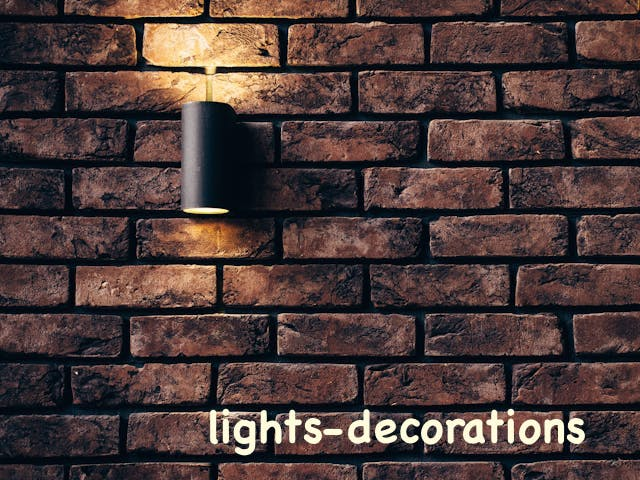
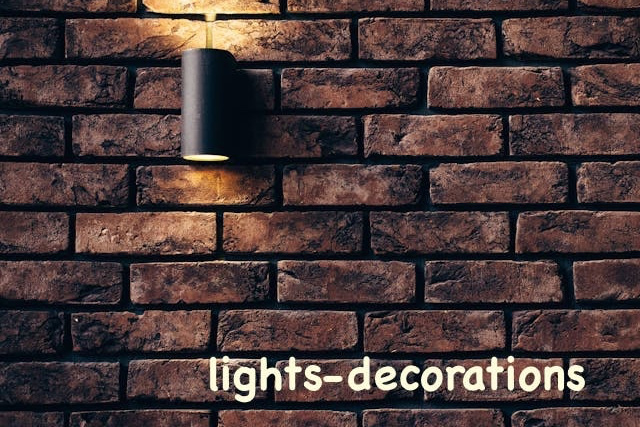
changed pictures size

diff --git a/mybussines.js b/mybussines.js
@@ -11,7 +11,7 @@ const c = './pictures/laptoppink.jpg';
 const d = './pictures/laptopgraph.jpg';
 
 const a0 = './pictures/2appledesktops.jpg'
-const a1 = './pictures/designroom.jpg'
+const a1 = './pictures/designroom1.jpg'
 const a2 = './pictures/flowersondesck.jpg'
 const a3 = './pictures/interiordesign11.jpg'
 const a4 = './pictures/ligthonwall.jpg'
@@ -71,7 +71,7 @@ dropbtn.addEventListener('click', (e) => {
     divwidth = toppage.offsetWidth
     if(divwidth < 550){
         if(menu == 0){
-            navbar.setAttribute('style', 'width:160px; transition: width 1s;')
+            navbar.setAttribute('style', 'width:160px; transition: width 1s; z-index:3;')
             menu = 1
         }else{
             navbar.setAttribute('style', 'width: 0px; transition: width 1s;')

diff --git a/index.html b/index.html
@@ -73,7 +73,7 @@
                         </div>
                     </div>
                     <div class="head2">
-                        <img id="myimage" src="./pictures/designerdesk.jpg" alt="">
+                        <img id="myimage" src="./pictures/laptopondesk.jpg" alt="">
                         <p><strong>We build websites</strong> for a width range of activities
                         like interior design, gardening work, house decoration, cleaning, handyman, cars repair, electric charging points,
                         beauty salons, restaurant, food presentation,
